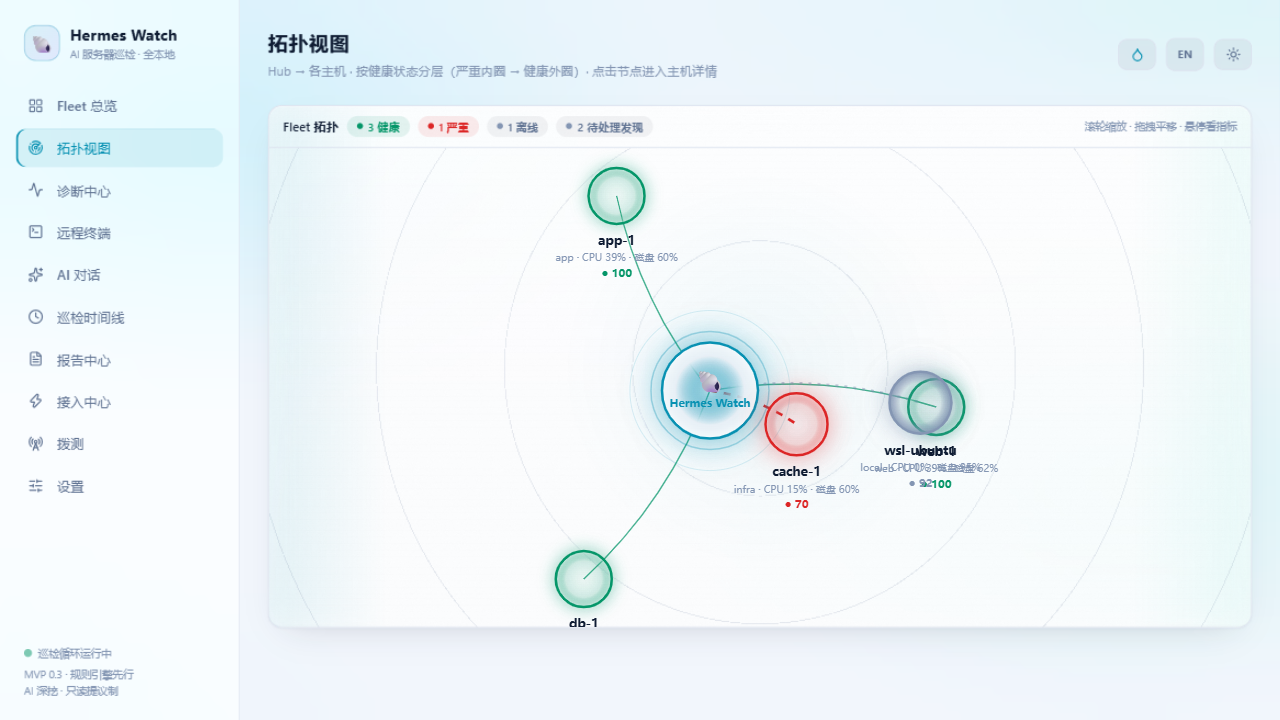
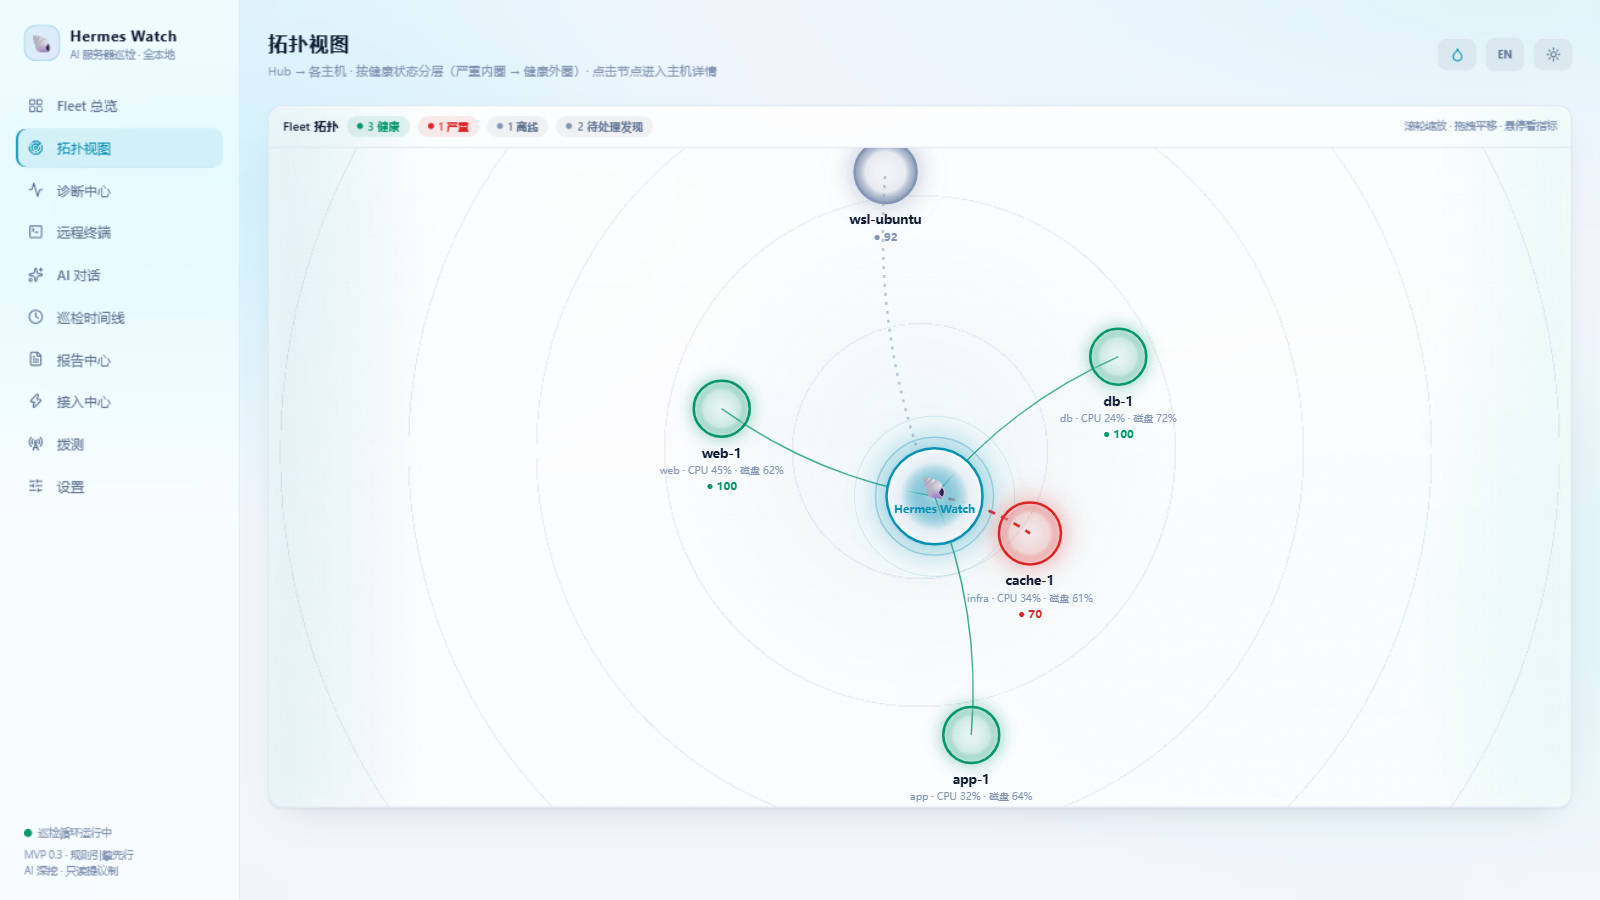
DoH 拨测（RFC 8484，Kuma 没有的差异化项）：复用 DNS 线格式编解码 POST 到 DoH 端点，dns_resolver 字段复用为端点 URL（留空=1.1.1.1），条件引擎/防抖/心跳/通知全套既有机制照走；前端 DOH 类型 pill + 表单 + 卡片展示；README 画廊补拓扑截图（上轮布局修复后够格入展）+ 拨测文案加 DoH；回归 257 全绿（新增 4 项：本地临时 DoH 端点全链路），真实 1.1.1.1 端点实测通过

diff --git a/frontend/src/pages/Probes.tsx b/frontend/src/pages/Probes.tsx
@@ -9,7 +9,7 @@ import { Ic } from '../icons'
 // success_threshold 次成功 → up。防抖窗口内显示「观察中 / 恢复中 x/N」徽标。
 
 type Probe = {
-  id: number; name: string; kind: 'url' | 'tcp' | 'dns' | 'icmp' | 'push'; target: string
+  id: number; name: string; kind: 'url' | 'tcp' | 'dns' | 'doh' | 'icmp' | 'push'; target: string
   up: 0 | 1; fail_streak: number; succ_streak: number
   fail_threshold: number; success_threshold: number; timeout_s: number
   keyword: string; max_latency_ms: number; cert_days_min: number; interval_s: number
@@ -61,8 +61,8 @@ function ProbeCard({ p, logs, running, badgeToken, onRun, onAskDelete, onCopyBad
             </span>
           </div>
           <div className="text-[11.5px] text-[var(--text-faint)] mt-0.5 mono truncate"
-            title={p.kind === 'dns' ? `${p.target} · ${p.dns_type} @ ${p.dns_resolver}` : p.target}>
-            {p.kind === 'dns' ? `${p.target} · ${p.dns_type} @ ${p.dns_resolver}` : p.target}
+            title={p.kind === 'dns' || p.kind === 'doh' ? `${p.target} · ${p.dns_type} @ ${p.dns_resolver}` : p.target}>
+            {p.kind === 'dns' || p.kind === 'doh' ? `${p.target} · ${p.dns_type} @ ${p.dns_resolver}` : p.target}
           </div>
         </div>
         <span className="pill shrink-0" style={{ background: ok ? 'var(--ok-bg)' : 'var(--crit-bg)', color, border: `1px solid ${ok ? 'var(--ok-border)' : 'var(--crit-border)'}` }}>
@@ -164,7 +164,7 @@ export default function Probes() {
   const [logs, setLogs] = useState<Record<number, ProbeLog[]>>({})
   const [loadErr, setLoadErr] = useState('')
   const [msg, setMsg] = useState('')
-  const [form, setForm] = useState({ name: '', kind: 'url' as 'url' | 'tcp' | 'dns' | 'icmp' | 'push', target: '' })
+  const [form, setForm] = useState({ name: '', kind: 'url' as 'url' | 'tcp' | 'dns' | 'doh' | 'icmp' | 'push', target: '' })
   const [advOpen, setAdvOpen] = useState(false)
   const [adv, setAdv] = useState({
     fail_threshold: '3', success_threshold: '2', timeout_s: '10',
@@ -238,8 +238,8 @@ export default function Probes() {
     if (form.kind === 'url' && adv.max_latency_ms !== '') payload.max_latency_ms = Number(adv.max_latency_ms)
     if (form.kind === 'url' && adv.cert_days_min !== '') payload.cert_days_min = Number(adv.cert_days_min)
     if (adv.interval_s !== '') payload.interval_s = Number(adv.interval_s)
-    // DNS 三件套与 Push 容忍窗口随各自 kind 提交
-    if (form.kind === 'dns') {
+    // DNS 三件套（dns/doh 共用）与 Push 容忍窗口随各自 kind 提交
+    if (form.kind === 'dns' || form.kind === 'doh') {
       payload.dns_resolver = adv.dns_resolver.trim()
       payload.dns_type = adv.dns_type
       payload.dns_expected = adv.dns_expected.trim()
@@ -346,7 +346,7 @@ export default function Probes() {
           <div>
             <div className="text-[11px] text-[var(--text-faint)] mb-1.5">{t('pr.kind')}</div>
             <div className="flex gap-1.5 flex-wrap">
-              {(['url', 'tcp', 'dns', 'icmp', 'push'] as const).map(k => (
+              {(['url', 'tcp', 'dns', 'doh', 'icmp', 'push'] as const).map(k => (
                 <button key={k} onClick={() => setForm({ ...form, kind: k })}
                   className={`pill ${form.kind === k ? '' : 'text-[var(--text-mute)]'}`}
                   style={form.kind === k ? { background: 'var(--accent-dim)', color: 'var(--accent)' } : { background: 'var(--neutral-bg)' }}>
@@ -361,6 +361,7 @@ export default function Probes() {
               placeholder={form.kind === 'url' ? t('pr.phTargetUrl')
                 : form.kind === 'tcp' ? t('pr.phTargetTcp')
                   : form.kind === 'dns' ? t('pr.phTargetDns')
+                    : form.kind === 'doh' ? t('pr.phTargetDoh')
                 : form.kind === 'icmp' ? t('pr.phTargetIcmp') : '—'}
               onChange={e => setForm({ ...form, target: e.target.value })} />
           </div>
@@ -368,14 +369,17 @@ export default function Probes() {
             <Ic name="plus" size={13} /> {t('pr.add')}
           </button>
         </div>
-        {/* DNS / Push 专属字段：DNS=解析器+记录类型+期望包含；Push=容忍窗口（其余条件不适用） */}
-        {(form.kind === 'dns' || form.kind === 'push') && (
+        {/* DNS / DoH / Push 专属字段：DNS|DoH=解析器+记录类型+期望包含；Push=容忍窗口（其余条件不适用） */}
+        {(form.kind === 'dns' || form.kind === 'doh' || form.kind === 'push') && (
           <div className="grid grid-cols-1 sm:grid-cols-3 gap-2.5 pt-2.5">
-            {form.kind === 'dns' ? (
+            {form.kind !== 'push' ? (
               <>
                 <div>
-                  <div className="text-[11px] text-[var(--text-faint)] mb-1">{t('pr.dnsResolver')}</div>
-                  <input className="input mono" placeholder="223.5.5.5" value={adv.dns_resolver}
+                  <div className="text-[11px] text-[var(--text-faint)] mb-1">
+                    {form.kind === 'doh' ? t('pr.dohResolver') : t('pr.dnsResolver')}
+                  </div>
+                  <input className="input mono" placeholder={form.kind === 'doh' ? 'https://1.1.1.1/dns-query' : '223.5.5.5'}
+                    value={adv.dns_resolver}
                     onChange={e => setAdv({ ...adv, dns_resolver: e.target.value })} />
                 </div>
                 <div>

diff --git a/frontend/src/i18n.ts b/frontend/src/i18n.ts
@@ -365,8 +365,10 @@ const ZH: Record<string, string> = {
   'pr.phTargetUrl': 'https://example.com/health',
   'pr.phTargetTcp': '10.0.0.5:22 或 db.internal:5432',
   'pr.phTargetDns': '待解析域名，如 example.com',
+  'pr.phTargetDoh': 'DoH 要解析的域名，如 example.com',
   'pr.phTargetIcmp': 'IP 或主机名，如 10.0.0.1',
   'pr.dnsResolver': '解析器（必填）',
+  'pr.dohResolver': 'DoH 端点 URL（留空 = 默认 1.1.1.1）',
   'pr.dnsType': '记录类型',
   'pr.dnsExpected': '期望包含',
   'pr.dnsExpectedPh': '留空 = 有答案即可',
@@ -987,8 +989,10 @@ const EN: Record<string, string> = {
   'pr.phTargetUrl': 'https://example.com/health',
   'pr.phTargetTcp': '10.0.0.5:22 or db.internal:5432',
   'pr.phTargetDns': 'Hostname to resolve, e.g. example.com',
+  'pr.phTargetDoh': 'Hostname to resolve over DoH, e.g. example.com',
   'pr.phTargetIcmp': 'IP or hostname, e.g. 10.0.0.1',
   'pr.dnsResolver': 'Resolver (required)',
+  'pr.dohResolver': 'DoH endpoint URL (empty = default 1.1.1.1)',
   'pr.dnsType': 'Record type',
   'pr.dnsExpected': 'Expected contains',
   'pr.dnsExpectedPh': 'Empty = any answer',

diff --git a/backend/run_tests.py b/backend/run_tests.py
@@ -270,14 +270,17 @@ def t_metrics_rollup():
         data = client.get(f"/api/hosts/{hid1}?range_min=10080").json()
         check("7 天读取走小时桶（无原始行也返回）", bool(data.get("metrics")))
         if data.get("metrics"):
-            m = data["metrics"][0]
-            check("小时桶行结构正确（ts=整点）", m["ts"] == bucket and m["cpu"] is not None)
+            # 按桶精确找行（不能取 metrics[0]：整点边界附近，常驻面板进程可能把
+            # 下面插入的「当前小时」行聚合成 hid1 的更新小时桶，新→旧排序会插队）
+            mrow = next((x for x in data["metrics"] if x["ts"] == bucket), None)
+            check("小时桶行结构正确（ts=整点）", mrow is not None and mrow["cpu"] is not None)
         data2 = client.get(f"/api/hosts/{hid1}?range_min=240").json()
         # 原始行路径仍在（4h 范围内只有当前小时那条 99 行 → 也在窗内）
         check("短范围仍走原始行", isinstance(data2.get("metrics"), list))
     finally:
         for h in (hid1, hid2):
             db.execute("DELETE FROM metrics WHERE host_id=?", (h,))
+            db.execute("DELETE FROM metrics_hourly WHERE host_id=?", (h,))
             db.execute("DELETE FROM hosts WHERE id=?", (h,))
         db.execute("DELETE FROM metrics_hourly WHERE bucket=?", (bucket,))
         check("现场清理", not db.query_one(
@@ -1488,6 +1491,53 @@ def t_tg_ack():
         check("现场清理", not db.query_one("SELECT id FROM findings WHERE id=?", (f1,)))
 
 
+def t_doh():
+    """DoH 拨测（RFC 8484）：本地临时 DoH 端点 → 线格式编解码全链路（不出网）。"""
+    print("[doh]")
+    import threading
+    from http.server import BaseHTTPRequestHandler, HTTPServer
+    from app import probes as pr
+
+    def _canned(qid: int) -> bytes:
+        # 手搓最小 DNS 应答：example.com A 93.184.216.34（.Question + 1 Answer）
+        name = b"\x07example\x03com\x00"
+        question = name + b"\x00\x01\x00\x01"
+        answer = name + b"\x00\x01\x00\x01" + (300).to_bytes(4, "big") \
+            + b"\x00\x04" + bytes([93, 184, 216, 34])
+        return qid.to_bytes(2, "big") + b"\x81\x80" + b"\x00\x01\x00\x01\x00\x00\x00\x00" \
+            + question + answer
+
+    class _H(BaseHTTPRequestHandler):
+        def do_POST(self):
+            body = self.rfile.read(int(self.headers.get("Content-Length", 0)))
+            self.send_response(200)
+            self.send_header("Content-Type", "application/dns-message")
+            self.end_headers()
+            self.wfile.write(_canned(int.from_bytes(body[:2], "big")))
+
+        def log_message(self, *a):
+            pass
+
+    srv = HTTPServer(("127.0.0.1", 0), _H)
+    url = f"http://127.0.0.1:{srv.server_address[1]}/dns-query"
+    threading.Thread(target=srv.serve_forever, daemon=True).start()
+    try:
+        answers = asyncio.run(pr.doh_lookup("example.com", "A", url, 5))
+        check("DoH 查询返回 A 记录", answers == ["93.184.216.34"])
+        ok, err = pr.dns_check(answers, "93.184")
+        check("期望子串命中", ok and not err)
+        ok2, lat, err2 = asyncio.run(pr.run_probe(
+            {"kind": "doh", "target": "example.com", "dns_type": "A",
+             "dns_expected": "93.184", "dns_resolver": url, "timeout_s": 5}))
+        check("run_probe doh 全链路（条件引擎）", ok2 and lat is not None and not err2)
+        ok3, _, err3 = asyncio.run(pr.run_probe(
+            {"kind": "doh", "target": "example.com", "dns_type": "A",
+             "dns_expected": "不存在的期望", "dns_resolver": url, "timeout_s": 5}))
+        check("期望不命中 → 失败带原因", not ok3 and "not in answers" in err3)
+    finally:
+        srv.shutdown()
+
+
 if __name__ == "__main__":
 
     db.init_db()
@@ -1526,5 +1576,6 @@ if __name__ == "__main__":
     t_rbac_endpoints()
     t_ports_biz()
     t_tg_ack()
+    t_doh()
     print(f"\n{PASS} passed, {FAIL} failed")
     sys.exit(1 if FAIL else 0)

diff --git a/backend/app/probes.py b/backend/app/probes.py
@@ -1,7 +1,8 @@
-"""Service probes: URL / TCP / DNS / ICMP dial checks + push heartbeats.
+"""Service probes: URL / TCP / DNS / DoH / ICMP dial checks + push heartbeats.
 
 拨测监控（对标 Uptime Kuma 拨测 / Gatus 状态机，补「只管主机不管服务」的维度缺口）：
 - 目标：URL（GET，接受 http/https）、TCP（host:port 连通）、DNS（解析器 + 期望应答）、
+  DoH（RFC 8484，DNS over HTTPS，Kuma 没有的差异化项）、
   ICMP（IPv4 echo，Windows IcmpSendEcho / POSIX SOCK_DGRAM，均零特权零依赖）
 - 状态机（Gatus 式双阈值防抖）：
   连续 fail_threshold 次失败 → down；down 中连续 success_threshold 次成功 → up
@@ -186,6 +187,25 @@ async def dns_lookup(target: str, rrtype: str = "A", resolver: str = "",
     return _parse_response(data, qid)
 
 
+async def doh_lookup(target: str, rrtype: str = "A", resolver_url: str = "",
+                     timeout_s: float = 10.0) -> list[str]:
+    """DNS-over-HTTPS 查询（RFC 8484）：DNS 报文 POST 到 DoH 端点 → rdata 字符串列表。
+
+    resolver_url 形如 "https://1.1.1.1/dns-query"（留空走该默认）；复用 UDP DNS 的
+    线格式编解码（_build_query/_parse_response），不引 dnspython。失败抛异常由
+    run_probe 归一为拨测失败。"""
+    qtype = QTYPES[(rrtype or "A").upper()]
+    url = (resolver_url or "").strip() or "https://1.1.1.1/dns-query"
+    qid = int.from_bytes(os.urandom(2), "big")
+    async with httpx.AsyncClient(timeout=timeout_s) as cli:
+        r = await cli.post(url, content=_build_query(target, qtype, qid),
+                           headers={"Content-Type": "application/dns-message",
+                                    "Accept": "application/dns-message"})
+    if r.status_code != 200:
+        raise ValueError(f"HTTP {r.status_code}")
+    return _parse_response(r.content, qid)
+
+
 def _parse_response(data: bytes, qid: int) -> list[str]:
     """解析 DNS 应答 → answer 区 rdata 字符串列表（纯函数，离线可测）。
 
@@ -316,6 +336,13 @@ async def run_probe(p: dict) -> tuple[bool, float | None, str]:
     try:
         if p["kind"] == "dns":
             answers = await dns_lookup(target, p["dns_type"] or "A",
+                                       (p["dns_resolver"] or "").strip(), timeout_s)
+            latency = (time.perf_counter() - started) * 1000
+            ok, err = dns_check(answers, p["dns_expected"] or "")
+            return ok, latency, err
+        if p["kind"] == "doh":
+            # DoH：dns_resolver 字段复用为 DoH 端点 URL（留空 = 默认 1.1.1.1）
+            answers = await doh_lookup(target, p["dns_type"] or "A",
                                        (p["dns_resolver"] or "").strip(), timeout_s)
             latency = (time.perf_counter() - started) * 1000
             ok, err = dns_check(answers, p["dns_expected"] or "")

diff --git a/backend/app/main.py b/backend/app/main.py
@@ -484,7 +484,7 @@ async def probe_add(p: ProbeIn):
     target = p.target.strip()
     if not name:
         raise HTTPException(400, i18n.t("名称不能为空", "Name is required"))
-    kind = p.kind if p.kind in ("url", "tcp", "dns", "icmp", "push") else "url"
+    kind = p.kind if p.kind in ("url", "tcp", "dns", "doh", "icmp", "push") else "url"
     if kind != "push" and not target:
         raise HTTPException(400, i18n.t("目标不能为空", "Target is required"))
     if kind == "url" and not target.startswith(("http://", "https://")):
@@ -492,18 +492,22 @@ async def probe_add(p: ProbeIn):
                                         "URL probe target must start with http:// or https://"))
     if kind == "tcp" and (":" not in target or not target.rpartition(":")[2].isdigit()):
         raise HTTPException(400, i18n.t("TCP 拨测目标格式为 主机:端口", "TCP probe target must be host:port"))
-    if kind == "dns":
+    if kind in ("dns", "doh"):
         if "/" in target or " " in target:
             raise HTTPException(400, i18n.t("DNS 拨测目标应为待解析域名", "DNS probe target must be a hostname"))
-        if not (p.dns_resolver or "").strip():
+        if kind == "dns" and not (p.dns_resolver or "").strip():
             raise HTTPException(400, i18n.t("DNS 拨测须指定解析器（如 223.5.5.5）",
                                             "DNS probe requires a resolver (e.g. 223.5.5.5)"))
+        if kind == "doh" and (p.dns_resolver or "").strip() \
+                and not (p.dns_resolver or "").strip().startswith(("http://", "https://")):
+            raise HTTPException(400, i18n.t("DoH 解析器应为 https:// 端点 URL（如 https://1.1.1.1/dns-query）",
+                                            "DoH resolver must be an https:// endpoint URL (e.g. https://1.1.1.1/dns-query)"))
     if db.query_one("SELECT id FROM probes WHERE name=?", (name,)):
         raise HTTPException(400, i18n.t(f"同名拨测已存在: {name}", f"A probe named {name} already exists"))
     if kind == "tcp" and (p.keyword or p.max_latency_ms or p.cert_days_min):
         raise HTTPException(400, i18n.t("条件引擎仅适用于 URL 拨测",
                                         "Conditions apply to URL probes only"))
-    if kind == "dns" and ((p.dns_type or "A").upper() not in probes.QTYPES):
+    if kind in ("dns", "doh") and ((p.dns_type or "A").upper() not in probes.QTYPES):
         raise HTTPException(400, i18n.t("DNS 记录类型不支持", "DNS record type not supported"))
     if p.interval_s and p.interval_s < 15:
         raise HTTPException(400, i18n.t("独立周期不能低于 15 秒", "Per-probe interval must be ≥ 15s"))

diff --git a/README.md b/README.md
@@ -14,9 +14,13 @@
 
 ![Fleet 总览](docs/screenshots/fleet.png)
 
-| 诊断中心（根因卡 + 证据链 + 提案审批） | 拨测（URL/TCP/DNS/ICMP/Push） | AI 对话（思考链/工具调用折叠展示） |
-|---|---|---|
-| ![](docs/screenshots/diagnostics.png) | ![](docs/screenshots/probes.png) | ![](docs/screenshots/chat.png) |
+| 拓扑视图（Hub 居中，按健康状态分层） | 诊断中心（根因卡 + 证据链 + 提案审批） |
+|---|---|
+| ![](docs/screenshots/topology.png) | ![](docs/screenshots/diagnostics.png) |
+
+| 拨测（URL/TCP/DNS/DoH/ICMP/Push） | AI 对话（思考链/工具调用折叠展示） |
+|---|---|
+| ![](docs/screenshots/probes.png) | ![](docs/screenshots/chat.png) |
 
 ## 📸 界面截图
 

diff --git a/README_EN.md b/README_EN.md
@@ -10,9 +10,13 @@ English · [中文](README.md)
 
 ![Fleet overview](docs/screenshots/fleet.png)
 
-| Diagnostics (root-cause cards, evidence, approvals) | Probes (URL/TCP/DNS/ICMP/Push) | AI chat (thinking & tool calls, collapsed) |
-|---|---|---|
-| ![](docs/screenshots/diagnostics.png) | ![](docs/screenshots/probes.png) | ![](docs/screenshots/chat.png) |
+| Topology (hub-centered, layered by health) | Diagnostics (root-cause cards, evidence, approvals) |
+|---|---|
+| ![](docs/screenshots/topology.png) | ![](docs/screenshots/diagnostics.png) |
+
+| Probes (URL/TCP/DNS/DoH/ICMP/Push) | AI chat (thinking & tool calls, collapsed) |
+|---|---|
+| ![](docs/screenshots/probes.png) | ![](docs/screenshots/chat.png) |
 
 ## Why
 
